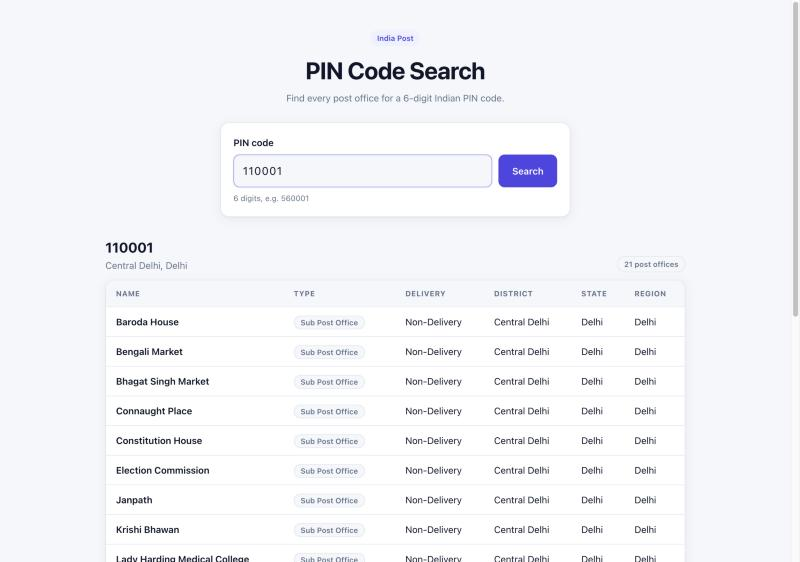
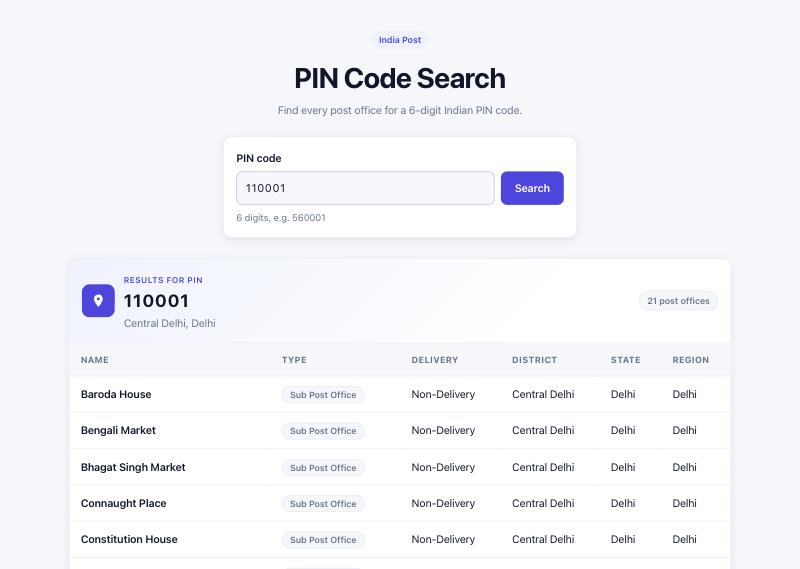
Retake README screenshots and fix cramped results header on phones

diff --git a/src/app/app.component.css b/src/app/app.component.css
@@ -305,6 +305,12 @@ button:active {
 @media (max-width: 640px) {
   .page { padding-top: 28px; }
 
+  .results-head { flex-wrap: wrap; }
+
+  .head-text { flex-basis: calc(100% - 66px); }
+
+  .count { margin-left: 66px; }
+
   thead { display: none; }
 
   tr {
